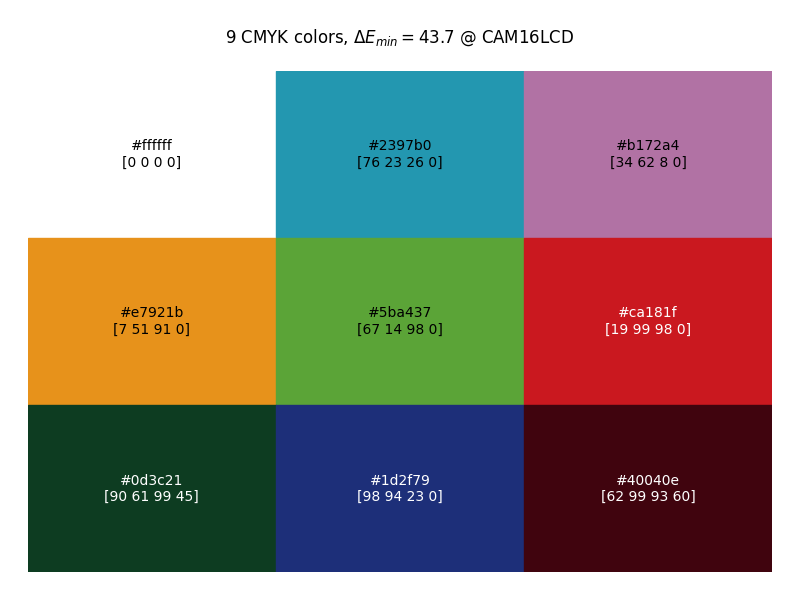
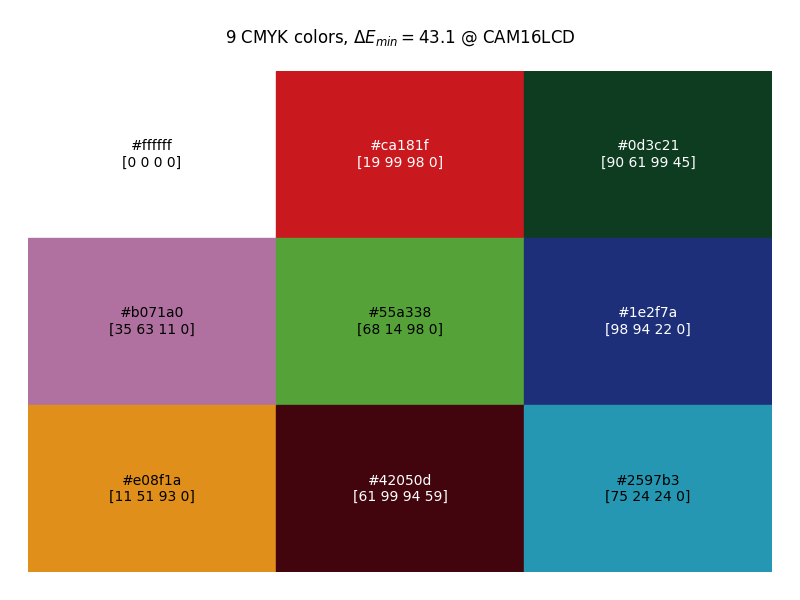
refactor(mdcolors): 调整颜色生成算法
- 更新了example/use_case.py中的颜色数组，使用新的颜色值
- 重命名了_init函数为_init_points，以更清晰地表示其功能
- 调整色彩顺序时固定首位颜色不变

diff --git a/mdcolors.py b/mdcolors.py
@@ -256,9 +256,9 @@ def _o3d_build_bound(points, alpha=None):
     pcd.points = o3d.utility.Vector3dVector(points)
 
     # 自动计算alpha值
-    if alpha is None:
-        max_spacing = np.max(pcd.compute_nearest_neighbor_distance())
-        alpha = max_spacing * 2.0
+    max_spacing = np.max(pcd.compute_nearest_neighbor_distance())
+    if alpha is not None:
+        alpha = max(max_spacing * 1.5, alpha)
 
     # 生成Alpha Shape网格
     mesh = o3d.geometry.TriangleMesh.create_from_point_cloud_alpha_shape(pcd, alpha)
@@ -326,7 +326,7 @@ def in_bounds(p, bound_space='sRGB', workspace='CAM16LCD', bounds=None):
     return valid
 
 
-def _init(num, bound_func, seed=None, **kwargs):
+def _init_points(num, bound_func, seed=None, **kwargs):
     """
     Initialize a set of random points within the given boundary.
     :param num: Number of points to generate.
@@ -409,7 +409,7 @@ def _deal_out_of_bounds(s, v, dt, **kwargs):
 
         # Update the velocity of the out-of-bounds particles
         v_magnitudes = np.linalg.norm(v[out_of_bounds], axis=1)  # Their original speeds
-        v[out_of_bounds] = 0.99 * v_magnitudes[:, np.newaxis] * random_vectors  # New velocity vector
+        v[out_of_bounds] = 0.995 * v_magnitudes[:, np.newaxis] * random_vectors  # New velocity vector
 
     return s, v
 
@@ -475,7 +475,7 @@ def sa_arrange(p):
     iterations_per_temp = min(max(1, int(n/5)), 100)
 
     # Initialize the current permutation by greedy method
-    current_perm = arrange_points(p)
+    current_perm = p    # arrange_points(p)
     current_min_dist = _compute_min_distance(current_perm)
 
     best_perm = current_perm.copy()
@@ -549,7 +549,7 @@ def maximize_delta_e(
     p0[:, 0] *= KL
 
     # Initialize the positions and velocities of the colors points.
-    pos = _init(num - p0.shape[0], in_bounds, seed=seed, **bound_kwargs)
+    pos = _init_points(num - p0.shape[0], in_bounds, seed=seed, **bound_kwargs)
     if p0.shape[0] > 0:
         pos = np.vstack([p0, pos])
     vel = np.zeros_like(pos, dtype=np.float32)
@@ -604,7 +604,7 @@ def maximize_delta_e(
     dists = np.linalg.norm(best_pos - best_pos[0], axis=1)
     best_pos = best_pos[np.argsort(dists)]
     if MAX_ADJ_CONTRAST:
-        best_pos[1:] = arrange_points(best_pos[1:])
+        best_pos[0:] = sa_arrange(best_pos[0:])
 
     # Convert the colors back to the source space
     # For CMY space, convert back to sRGB
@@ -741,7 +741,9 @@ def single_run(nums, given_colors=None, color_space='sRGB', uniform_space='CAM16
     # 可视化结果
     plot_points_and_line(points, times, dmin_list, "Time", r"Minimum $\Delta E$",
                          _color_space, uniform_space)
-    real_dmin = validate_result(points, _color_space, uniform_space)
+    real_dmin = validate_result(points, _color_space, uniform_space,
+                                # show=True,
+                                )
     plot_color_palette(hex_colors, points, color_space=color_space,
                        title=rf"{nums} {color_space} colors, $\Delta E_{{min}}={real_dmin:.1f}$ @ {uniform_space}")
 
@@ -790,7 +792,9 @@ def multi_run(nums, given_colors=None,
         if show:
             plot_points_and_line(best_points, np.arange(len(dmins)), dmins, "Runs", r"$\Delta E_{min}$",
                                  _color_space, uniform_space)
-            validate_result(best_points, _color_space, uniform_space)
+            validate_result(best_points, _color_space, uniform_space,
+                            # show=show,
+                            )
             plot_color_palette(
                 best_hexs, best_points, color_space=color_space,
                 title=rf"{nums} {color_space} colors, $\Delta E_{{min}}={best_dmin:.1f}$ @ {uniform_space}")
@@ -901,7 +905,7 @@ def plot_color_palette(hex_colors, original, color_space='sRGB', title="Color Pa
 if __name__ == '__main__':
     ### Single function test.
     # print(100*auto_convert([0.95, 0.95, 0.95, 0], 'CMYK', 'CAM16LCD'))
-    get_boundary_hull("sRGB", "CAM16LCD", 11, show=True)
+    get_boundary_hull("sRGB", "CIE Lab", 11, show=True)
 
     ### Run the simulation.
     # single_run(9, [1, 1, 1], color_space='sRGB', quality='medium')

diff --git a/example/use_case.py b/example/use_case.py
@@ -10,11 +10,11 @@ x = np.linspace(0, 10, 100)
 # colors1 = ['#00b27e', '#f0fe01', '#04a5fd', '#be7900', '#fe03d2',
 #            '#6e0afe', '#fe0202', '#013300', '#590005', '#00003b']   # CAM16LCD
 
-colors1 = ['#a385b3', '#ecbe2b', '#259da9', '#49a037', '#7f5e26',
-           '#d7461f', '#9a1570', '#3a2778', '#033029', '#38050a']   # CAM16LCD CMYK
-colors2 = ['#74b7d7', '#ed98a4', '#ea9e1b', '#8776a9', '#9cbc2d',
-           '#0f6877', '#7f5925', '#1c7b3a', '#d34e18', '#c5176c',
-           '#6c2170', '#1a3076', '#132f17', '#6e1519', '#1d0815']
+colors1 = ['#d0401b', '#033029', '#991670', '#846227', '#352b7d',
+           '#eade35', '#239ca9', '#370509', '#3f9d39', '#a486b1']   # CAM16LCD CMYK
+colors2 = ['#0e6a79', '#de8b98', '#153379', '#aac024', '#692173',
+           '#1b9151', '#6d191b', '#75b9d6', '#092e18', '#d1461a',
+           '#7f75a8', '#e29418', '#190718', '#bf126e', '#7a653e']
 
 
 # Create figure and subplots
